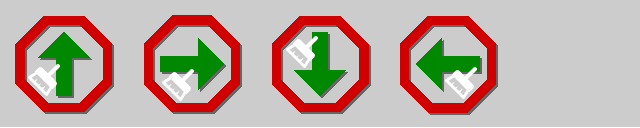
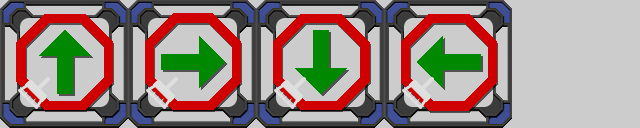
path graphics

diff --git a/changelog.md b/changelog.md
@@ -1,3 +1,7 @@
+0.1.21
+
+* Path graphics update.
+
 0.1.20
 
 * BUGFIX: nil mod.players reference
